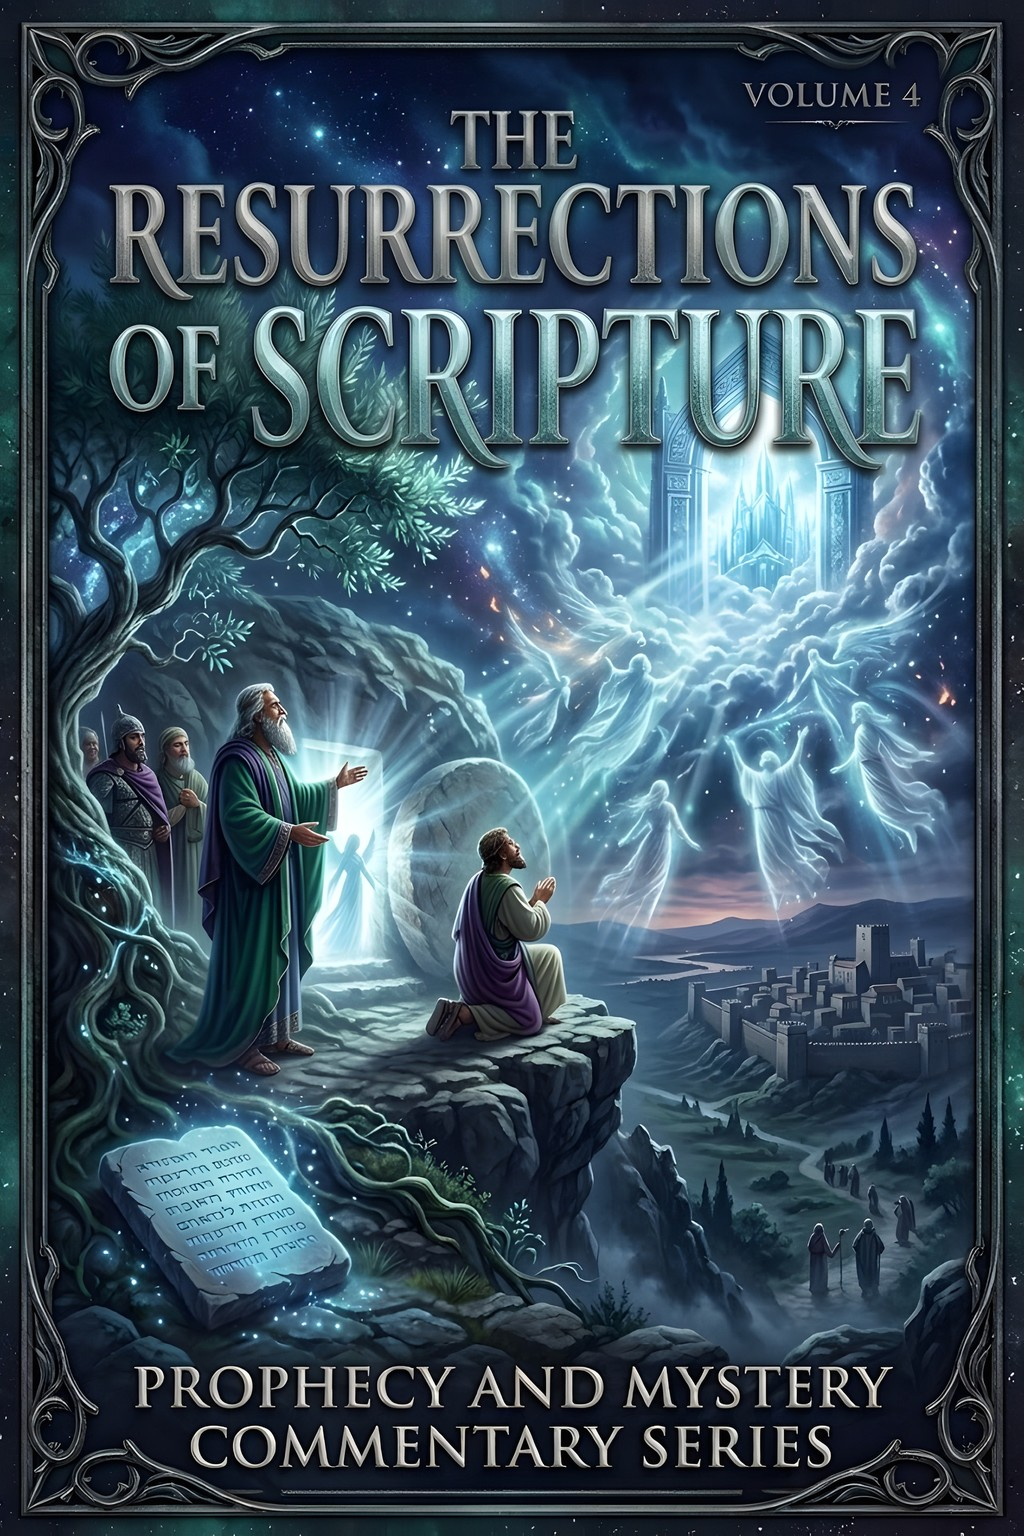
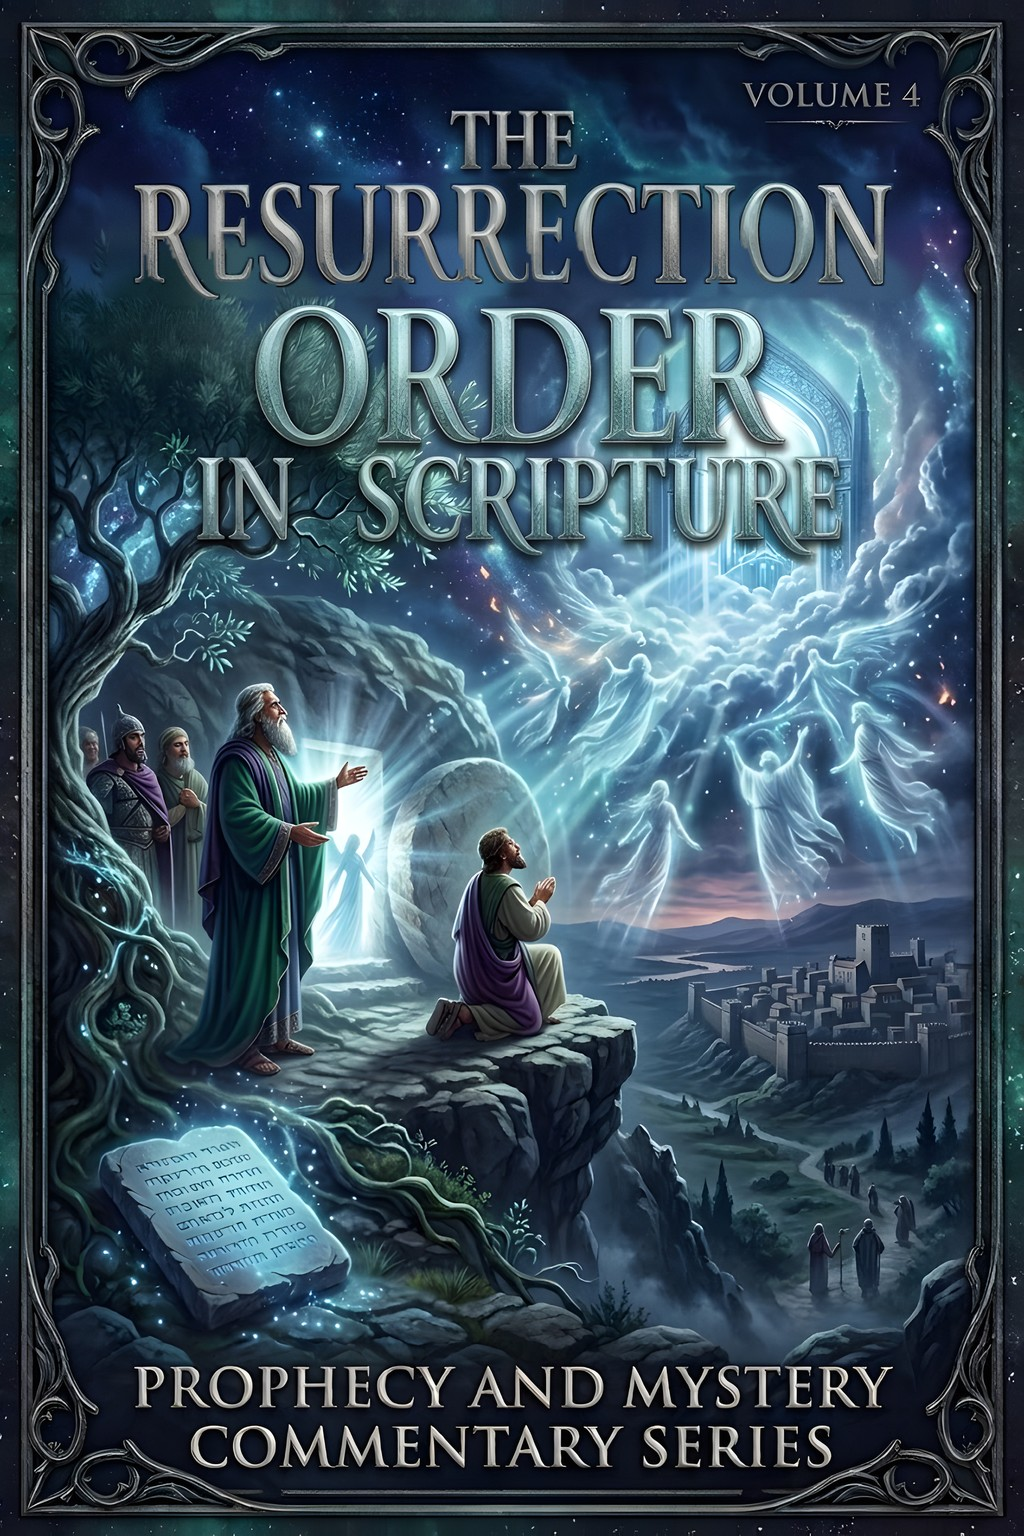
Volume 4: new cover art lettered The Resurrection Order in Scripture; Standard v1.8
Claude-Session: https://claude.ai/code/session_01JKwj3UcUWMH5FJGATatNdQ

Changed region(s): [[0.0938, 0.0938, 0.9062, 0.375]]

diff --git a/CLAUDE.md b/CLAUDE.md
@@ -50,7 +50,7 @@ These are kept in the repo at `controlling-documents/` and are the current versi
 - **`controlling-documents/Covenantal_Commentary_Series_Standard_v1.5.md`** — Covenantal Commentary Series Standard (v1.5, 2026-10-07: Volume 5, The Davidic Covenant, added at the publisher’s request, thesis, outline, six rulings and status recorded (50 pages, interior and supplied cover approved, page `commentary-covenantal-05-the-davidic-covenant.html`; series now five volumes); v1.4: Volume 4, The Eternal Purpose of God, thesis, outline, six rulings and status added (50 pages, interior and supplied cover approved, page `commentary-covenantal-04-the-eternal-purpose-of-god.html`; series complete); v1.3: Volume 3, Inheritance, thesis, outline, six rulings and status added (55 pages, interior and supplied cover approved, page `commentary-covenantal-03-inheritance.html`); v1.2: Volume 2, Abraham’s Seed, thesis, outline, four rulings and status added; v1.1, 2026-10-07: series created; objections chapter standard added; four volumes in the publisher’s order; footer, cover, price and placement; Volume 1 thesis, outline and three rulings): name, scope, length, imprint, translation, typeface, cover (1600 × 2400 artwork, gold-and-red Trajan-style title, “VOLUME V” upper right, “COVENANTAL COMMENTARY SERIES” at the bottom), price, Mode 2 rules, quotation and citation rules, structure, verse-level index, website and workflow, modelled on the two sibling Standards. Read it before any Covenantal volume; keep it current and bump the version and filename as it changes.
 - **`controlling-documents/Prophetic_Commentary_Series_Standard_v1.10.md`** — Prophetic Commentary Series Standard (v1.10, 2026-10-07: pre-1900 authors removed from Volumes 1, 3, 4 and 5, Volume 1 now 65 pages; v1.9: name returned to the singular, covers stand as made; v1.6 had renamed it to Commentaries, with the cover size and per-series numbering recorded; earlier: v1.5; renamed from the Theological Commentary Series on 2026-10-06; v1.0 final 2026-10-06; v1.1 added the modern-scholarly-sources rule: 3–5 modern voices per volume, fetched and verified by Claude, paraphrases flagged; Volume 1 price $14.99): name, scope, length, imprint, translation, typeface, cover, price, bibliography, polemic and quotation rules, structure, website and workflow for Commentary Volumes (Mode 2). Footer line “ZAY-MARIE PRESS PROPHETIC COMMENTARY SERIES, VOLUME V • N”; cover carries “VOLUME V” at the upper right and “PROPHETIC COMMENTARY SERIES” at the bottom (restored 2026-10-07). Read it before any Commentary Volume work; the Digital Studies workflow in this file does not apply to volumes. Bump the version and rename the file as it is finalized.
 - **`controlling-documents/Prophetic_Identity_Commentary_Series_Standard_v1.8.md`** — Prophetic Identity Commentary Series Standard (v1.8, 2026-10-07: sibling series name returned to Prophetic Commentary Series; v1.6: Volume 5, The Eschatological Community, interior (52 pages) and supplied cover approved, page `commentary-identity-05-the-eschatological-community.html`, series complete; Volumes 3 and 4 interiors corrected for a duplicated KJV-table header row; v1.5: Volume 4, The Olive Tree, interior (54 pages) and supplied cover approved, page `commentary-identity-04-the-olive-tree.html`, Appendix G now a verse-level Scripture index in Volumes 1–4 (page counts of Volumes 1–3 now 56, 60 and 56); v1.4: Volume 3, The New Covenant, interior (50 pages) and supplied cover approved, page `commentary-identity-03-the-new-covenant.html`; v1.3: Volume 2, The Remnant, interior and supplied cover approved, 54 pages, page `commentary-identity-02-the-remnant.html`; v1.1, 2026-10-07; v1.0 2026-10-06; a record of the series, introducing no new rule; modelled on the Prophetic Commentary Series Standard (v1.10) and bound by the modern-sources-only rule in Master Standard v1.69): five volumes (The Bride Identity in Prophecy; The Remnant; The New Covenant; The Olive Tree; The Eschatological Community) in Mode 2, KJV only, Roboto, 50–70 pages, $14.99 for Volume 1, footer “ZAY-MARIE PRESS PROPHETIC IDENTITY COMMENTARY SERIES, VOLUME V • N”, cover with “VOLUME V” at the upper right and “PROPHETIC IDENTITY COMMENTARY SERIES” at the bottom, shown on the Commentary Collection page (no separate series page) outside the Digital Studies catalog. Volume 1 interior and supplied cover approved 2026-10-06. Build toolkit in `build-tools/commentary/`. Read it before any volume in this series.
-- **`controlling-documents/Prophecy_Mystery_Commentary_Series_Standard_v1.7.md`** — Prophecy & Mystery Commentary Series Standard (v1.7, 2026-10-08; a record of the series, introducing no new rule, so the Master Standard stays at v1.76; v1.1 added Volume 2, v1.2 Volume 3, v1.3 replaced the covers of Volumes 1–3, v1.4 added Volume 4, v1.5 changed Volume 4’s subtitle, v1.6 added Volume 5 and v1.7 retitled Volume 4; its supplied cover still carries the earlier lettering): five Commentary Volumes in Mode 2 (1 Israel & the Body — Two Programs, Two Identities; 2 The Mystery Program; 3 The Kingdom Program; 4 The Resurrection Order in Scripture; 5 Separate Courts), KJV only, Roboto, 50–70 pages, $14.99 unless the publisher says otherwise. Footer “ZAY-MARIE PRESS PROPHECY & MYSTERY COMMENTARY SERIES, VOLUME V • N”; cover carries “VOLUME V” at the upper right and “PROPHECY & MYSTERY COMMENTARY SERIES” at the bottom; shown on the Commentary Collection page (`#prophecy-mystery`) outside the Digital Studies catalog. Rules 7, 11 and 13–19 bind, including the standing Romans 11 and Galatians 3 sentences; Rules 8, 12 and 20–28 do not. Volume 1 (interior 52 pages, supplied cover approved 2026-10-07, page `commentary-prophecy-mystery-01-israel-and-the-body.html`): thesis — two programs ran concurrently through Acts 9–28 and never merged; Acts 28 is a national suspension, not a replacement; the Body is not Israel and Israel is not the Body; six rulings recorded in the Standard (concurrency operational not transformational; Acts 28 suspension; Gal 6:16 = believing Jews within Israel’s prophetic identity, not Body; Eph 2:11–22 wall abolished for the Body; Gal 2:7–9 two ministries as written under Rule 18; Rom 11 and Gal 3 standing sentences). Volume 2 (The Mystery Program — Hid in God, Revealed Through Paul; interior 50 pages, supplied cover approved 2026-10-07, page `commentary-prophecy-mystery-02-the-mystery-program.html`): thesis — Scripture names a secret kept secret since the world began and hid in God, revealed to Paul; it was not foretold by the prophets; content = Jew and Gentile one body in Christ, Christ in you the hope of glory, heavenly seat; a stewardship committed to Paul; began at Acts 9, ran beside Israel’s program through Acts 9–28, continues after Acts 28; seven rulings recorded in the Standard (including Rom 16:26 and Eph 5:32). Volume 3 (The Kingdom Program — Promised to Israel, Earthly, and Still to Come; interior 50 pages, supplied cover approved 2026-10-07, page `commentary-prophecy-mystery-03-the-kingdom-program.html`): thesis — Scripture promises Israel a kingdom (a Davidic King on David’s throne at Jerusalem, the nations under Israel’s restored line, on the earth); announced “at hand” to Israel alone by John, the Lord and the Twelve; refused; offered again through Acts 1–8; Israel’s program nationally suspended at Acts 28; still to come with the King’s return and a thousand years; not the church and not the Body’s heavenly calling; rulings recorded in the Standard (offer not withdrawn at Matthew 12; Colossians 1:13 = the Son’s own rule, not David’s throne; Luke 17:21 and Romans 14:17 read in their settings; the inheritance warnings reported in their settings, not made warnings to the Body; Acts 28:31 reported as written under the standing rule on Paul’s synagogue ministry). Volume 4 (The Resurrection Order in Scripture — Christ’s, Israel’s and the Body’s Rising, and the Order Between Them; interior 50 pages, supplied cover approved 2026-10-08, page `commentary-prophecy-mystery-04-the-resurrections-of-scripture.html`): thesis — Scripture names more than one resurrection and the passages that name them do not run together: Christ’s (firstfruits), Israel’s (the first resurrection of Revelation 20 with Israel’s just at the King’s return, the rest of the dead after the thousand years) and the Body’s (a secret shown through Paul, before Daniel’s seventieth week and the day of the Lord); eleven rulings recorded in the Standard (Ezekiel 37 a national restoration; “one taken, one left” is Israel’s Tribulation separation; 1 Corinthians 15:23 read narrowly as the Body’s own order; Matthew 27:52–53 reported as written; Acts 24:15 and 26:6–8 under the standing rule on Paul’s synagogue ministry; Philippians 3:11 Paul’s own pursuit; Hebrews 11:35 within Israel’s line; Body to heavenly glorification, Israel to the earthly kingdom). Volume 5 (Separate Courts — Who Is Judged Where, and Why Scripture Does Not Merge Them; interior 50 pages, supplied cover approved 2026-10-08, page `commentary-prophecy-mystery-05-separate-courts.html`): thesis — Scripture does not describe one general judgment but names separate courts, each with its own seat, people, ground and verdict: the Cross (sin judged once in Christ), the judgment seat of Christ (the Body’s accounting of work, no condemnation), Israel’s judgment in the land, the living nations at the King’s return, the beast’s kingdom in the day of the Lord with the thrones of Revelation 20:4, and the great white throne for the rest of the dead; ten rulings recorded in the Standard (Matthew 24:45–25:30 is Israel’s, not the judgment seat; Matthew 25:31–46 is the living nations with “my brethren” Israel’s company; 1 Corinthians 6:2–3 is the Body’s future part in judging; Hebrews 9:27 and 1 Peter 4:17 read within their own letters; Romans 2:5–16 is the day of wrath on the impenitent moralist; Revelation 11:18 a summary, not one day; whether anyone saved in the thousand years stands at the great white throne left open). The series has five volumes. Read it before any volume in this series.
+- **`controlling-documents/Prophecy_Mystery_Commentary_Series_Standard_v1.8.md`** — Prophecy & Mystery Commentary Series Standard (v1.8, 2026-10-08; a record of the series, introducing no new rule, so the Master Standard stays at v1.76; v1.1 added Volume 2, v1.2 Volume 3, v1.3 replaced the covers of Volumes 1–3, v1.4 added Volume 4, v1.5 changed Volume 4’s subtitle, v1.6 added Volume 5 and v1.7 retitled Volume 4 and v1.8 replaced its cover with new artwork lettered “THE RESURRECTION ORDER IN SCRIPTURE” (the supplied plural “Resurrections” made singular)): five Commentary Volumes in Mode 2 (1 Israel & the Body — Two Programs, Two Identities; 2 The Mystery Program; 3 The Kingdom Program; 4 The Resurrection Order in Scripture; 5 Separate Courts), KJV only, Roboto, 50–70 pages, $14.99 unless the publisher says otherwise. Footer “ZAY-MARIE PRESS PROPHECY & MYSTERY COMMENTARY SERIES, VOLUME V • N”; cover carries “VOLUME V” at the upper right and “PROPHECY & MYSTERY COMMENTARY SERIES” at the bottom; shown on the Commentary Collection page (`#prophecy-mystery`) outside the Digital Studies catalog. Rules 7, 11 and 13–19 bind, including the standing Romans 11 and Galatians 3 sentences; Rules 8, 12 and 20–28 do not. Volume 1 (interior 52 pages, supplied cover approved 2026-10-07, page `commentary-prophecy-mystery-01-israel-and-the-body.html`): thesis — two programs ran concurrently through Acts 9–28 and never merged; Acts 28 is a national suspension, not a replacement; the Body is not Israel and Israel is not the Body; six rulings recorded in the Standard (concurrency operational not transformational; Acts 28 suspension; Gal 6:16 = believing Jews within Israel’s prophetic identity, not Body; Eph 2:11–22 wall abolished for the Body; Gal 2:7–9 two ministries as written under Rule 18; Rom 11 and Gal 3 standing sentences). Volume 2 (The Mystery Program — Hid in God, Revealed Through Paul; interior 50 pages, supplied cover approved 2026-10-07, page `commentary-prophecy-mystery-02-the-mystery-program.html`): thesis — Scripture names a secret kept secret since the world began and hid in God, revealed to Paul; it was not foretold by the prophets; content = Jew and Gentile one body in Christ, Christ in you the hope of glory, heavenly seat; a stewardship committed to Paul; began at Acts 9, ran beside Israel’s program through Acts 9–28, continues after Acts 28; seven rulings recorded in the Standard (including Rom 16:26 and Eph 5:32). Volume 3 (The Kingdom Program — Promised to Israel, Earthly, and Still to Come; interior 50 pages, supplied cover approved 2026-10-07, page `commentary-prophecy-mystery-03-the-kingdom-program.html`): thesis — Scripture promises Israel a kingdom (a Davidic King on David’s throne at Jerusalem, the nations under Israel’s restored line, on the earth); announced “at hand” to Israel alone by John, the Lord and the Twelve; refused; offered again through Acts 1–8; Israel’s program nationally suspended at Acts 28; still to come with the King’s return and a thousand years; not the church and not the Body’s heavenly calling; rulings recorded in the Standard (offer not withdrawn at Matthew 12; Colossians 1:13 = the Son’s own rule, not David’s throne; Luke 17:21 and Romans 14:17 read in their settings; the inheritance warnings reported in their settings, not made warnings to the Body; Acts 28:31 reported as written under the standing rule on Paul’s synagogue ministry). Volume 4 (The Resurrection Order in Scripture — Christ’s, Israel’s and the Body’s Rising, and the Order Between Them; interior 50 pages, supplied cover approved 2026-10-08, page `commentary-prophecy-mystery-04-the-resurrections-of-scripture.html`): thesis — Scripture names more than one resurrection and the passages that name them do not run together: Christ’s (firstfruits), Israel’s (the first resurrection of Revelation 20 with Israel’s just at the King’s return, the rest of the dead after the thousand years) and the Body’s (a secret shown through Paul, before Daniel’s seventieth week and the day of the Lord); eleven rulings recorded in the Standard (Ezekiel 37 a national restoration; “one taken, one left” is Israel’s Tribulation separation; 1 Corinthians 15:23 read narrowly as the Body’s own order; Matthew 27:52–53 reported as written; Acts 24:15 and 26:6–8 under the standing rule on Paul’s synagogue ministry; Philippians 3:11 Paul’s own pursuit; Hebrews 11:35 within Israel’s line; Body to heavenly glorification, Israel to the earthly kingdom). Volume 5 (Separate Courts — Who Is Judged Where, and Why Scripture Does Not Merge Them; interior 50 pages, supplied cover approved 2026-10-08, page `commentary-prophecy-mystery-05-separate-courts.html`): thesis — Scripture does not describe one general judgment but names separate courts, each with its own seat, people, ground and verdict: the Cross (sin judged once in Christ), the judgment seat of Christ (the Body’s accounting of work, no condemnation), Israel’s judgment in the land, the living nations at the King’s return, the beast’s kingdom in the day of the Lord with the thrones of Revelation 20:4, and the great white throne for the rest of the dead; ten rulings recorded in the Standard (Matthew 24:45–25:30 is Israel’s, not the judgment seat; Matthew 25:31–46 is the living nations with “my brethren” Israel’s company; 1 Corinthians 6:2–3 is the Body’s future part in judging; Hebrews 9:27 and 1 Peter 4:17 read within their own letters; Romans 2:5–16 is the day of wrath on the impenitent moralist; Revelation 11:18 a summary, not one day; whether anyone saved in the thousand years stands at the great white throne left open). The series has five volumes. Read it before any volume in this series.
 - **`controlling-documents/Pre_Launch_Audit_Deferred_Items_v1.6.md`** — working list of known items waiting for the one full website audit before launch (see v1.72 above). Read it before any website audit; add items as they are found, bump the version and rename the file as it changes. Not a rule.
 - **`build-tools/`** — the study rebuild toolkit (scripts, per-study edit files, README), committed 2026-10-04 at the publisher's approval so the retrofit method and every per-study wording edit survive a session reset. Working tools only; the site does not use them. Not a rule.
 **`controlling-documents/Digital_Studies_Relationship_Map_v1.48.md`** — records each study's distinct subject, its related studies, the eight priced six-study collections, the Paul's Missionary Journeys cross-reference map, and the five primary catalog categories (currently version 1.48, covers Studies 1–80; update it as new studies publish, bump the version number, rename the file to match, and log the change in its own version-history table — mirroring the Master Standard's `_vX.Y` filename convention). Check a proposed topic against it before recommending or writing a new study. (2026-09-28: the file was missing from this repo despite this note referencing it; replaced from the publisher's copy and bumped v1.15→v1.25 in the same pass. If this note ever again points to a version not present under `controlling-documents/`, ask the publisher for a copy rather than proceeding without the check.)
@@ -78,7 +78,7 @@ Applies to every "What You Will Learn in This Study" page inside the interior PD
 
 ## Interpretive modes (publisher directive, 2026-10-06)
 
-The Digital Studies are Mode 1 (text-governed) and are built by the Master Standard and the workflow below. Commentary Volumes are Mode 2 (canonical identity synthesis) and are built by their series Standard (`controlling-documents/Prophetic_Commentary_Series_Standard_v1.10.md`, `Prophetic_Identity_Commentary_Series_Standard_v1.8.md` or `Covenantal_Commentary_Series_Standard_v1.5.md` or `Prophecy_Mystery_Commentary_Series_Standard_v1.7.md`), Framework §XX and Master Standard §20 Rule 29. Never apply Mode 2 conclusions inside a Digital Study, and never apply the Digital Study "report as written" restrictions (Rules 8 and 20–28) to a Commentary Volume. The mode label never appears in anything the reader sees.
+The Digital Studies are Mode 1 (text-governed) and are built by the Master Standard and the workflow below. Commentary Volumes are Mode 2 (canonical identity synthesis) and are built by their series Standard (`controlling-documents/Prophetic_Commentary_Series_Standard_v1.10.md`, `Prophetic_Identity_Commentary_Series_Standard_v1.8.md` or `Covenantal_Commentary_Series_Standard_v1.5.md` or `Prophecy_Mystery_Commentary_Series_Standard_v1.8.md`), Framework §XX and Master Standard §20 Rule 29. Never apply Mode 2 conclusions inside a Digital Study, and never apply the Digital Study "report as written" restrictions (Rules 8 and 20–28) to a Commentary Volume. The mode label never appears in anything the reader sees.
 
 ## Publishing a new study (Study N)
 

diff --git a/controlling-documents/Prophecy_Mystery_Commentary_Series_Standard_v1.8.md b/controlling-documents/Prophecy_Mystery_Commentary_Series_Standard_v1.8.md
@@ -1,6 +1,6 @@
 # Prophecy & Mystery Commentary Series Standard
 
-Version 1.7 — publisher directive, 2026-10-08. Governs the Prophecy & Mystery Commentary Series (each title a "Commentary Volume"), written in Mode 2 (canonical identity synthesis) under Framework §XX and Master Standard §20 Rule 29. It is modelled on the Covenantal Commentary Series Standard (v1.5), the Prophetic Commentary Series Standard (v1.10) and the Prophetic Identity Commentary Series Standard (v1.8) and shares their layout, quotation and citation rules. The Digital Studies stay under Mode 1 and the Master Standard; nothing here changes them. This Standard records the series and introduces no new rule of its own beyond the series record itself; it follows the modern-sources-only rule (v1.69), the commentary cover-size and numbering rules (v1.70), the verse-level Scripture index rule (v1.73) and the objections chapter standard (v1.76).
+Version 1.8 — publisher directive, 2026-10-08. Governs the Prophecy & Mystery Commentary Series (each title a "Commentary Volume"), written in Mode 2 (canonical identity synthesis) under Framework §XX and Master Standard §20 Rule 29. It is modelled on the Covenantal Commentary Series Standard (v1.5), the Prophetic Commentary Series Standard (v1.10) and the Prophetic Identity Commentary Series Standard (v1.8) and shares their layout, quotation and citation rules. The Digital Studies stay under Mode 1 and the Master Standard; nothing here changes them. This Standard records the series and introduces no new rule of its own beyond the series record itself; it follows the modern-sources-only rule (v1.69), the commentary cover-size and numbering rules (v1.70), the verse-level Scripture index rule (v1.73) and the objections chapter standard (v1.76).
 
 ## Ruled by the publisher (2026-10-07)
 - **Name:** Prophecy & Mystery Commentary Series. Each title is a Commentary Volume.
@@ -123,3 +123,4 @@ As in the Covenantal Commentary Series Standard (v1.5): cover, Table of Contents
 - v1.5 (2026-10-08): Volume 4 subtitle changed to “Christ’s, Israel’s and the Body’s Rising, and the Order Between Them” so that it does not echo Study 49’s title and subtitle; Collection tile blurb reworded; Volume 5 title approved: Separate Courts: Who Is Judged Where, and Why Scripture Does Not Merge Them (thesis, outline and rulings proposed, awaiting approval).
 - v1.6 (2026-10-08): Volume 5 thesis, outline and ten rulings recorded at the publisher’s "i approve"; cover art received (2748 × 4096, resized to 1600 × 2400 and 1024 × 1536; no badge found; the Hebrew-looking lettering on the stone tablet left as supplied); interior (50 pages, 147-row verse index, 51 key passages, every quotation and passage checked against the Gutenberg KJV) and cover approved, page `commentary-prophecy-mystery-05-separate-courts.html` and tile added; the Collection series line reads “5 volumes” and the series blurb adds “the courts of judgment”. Series now five volumes.
 - v1.7 (2026-10-08): Volume 4 retitled “The Resurrection Order in Scripture” at the publisher’s direction (subtitle unchanged). The supplied cover art is unchanged and still carries the earlier lettering “THE RESURRECTIONS OF SCRIPTURE”; the page URL `commentary-prophecy-mystery-04-the-resurrections-of-scripture.html` is unchanged; the interior metadata, volume page, Collection tile and Volume 5 related-reading link carry the new title.
+- v1.8 (2026-10-08): Volume 4’s cover replaced with the publisher’s new artwork (supplied 2748 × 4096 px, trimmed to 2:3 and set at 1600 × 2400; no badge present). The supplied lettering read “THE RESURRECTIONS ORDER IN SCRIPTURE”; at the publisher’s ruling that the title is singular, the final “S” of “Resurrections” was removed from the cover and the word re-centred, so the cover now reads “THE RESURRECTION ORDER IN SCRIPTURE”, matching the title in the metadata, volume page and Collection tile. The interior (50 pages), the PDF and DOCX and the 1024 × 1536 web covers (.jpg and .webp) carry the new cover.
